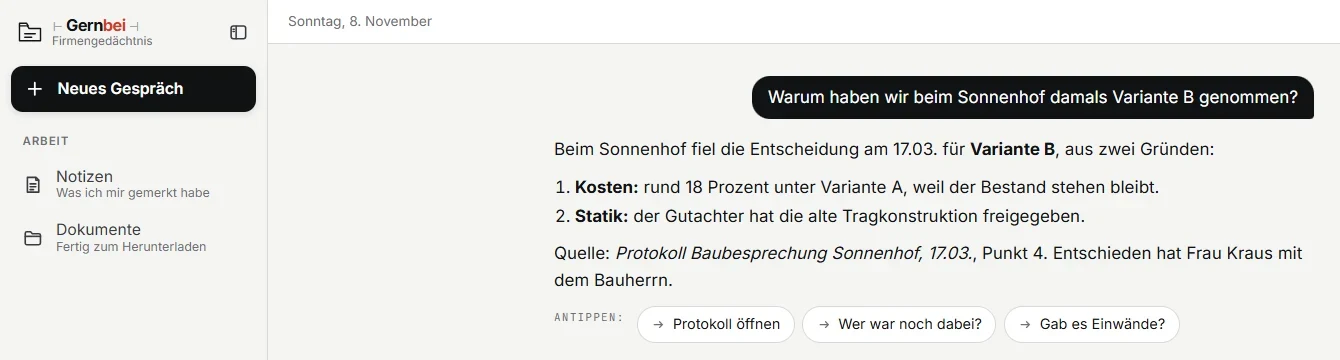
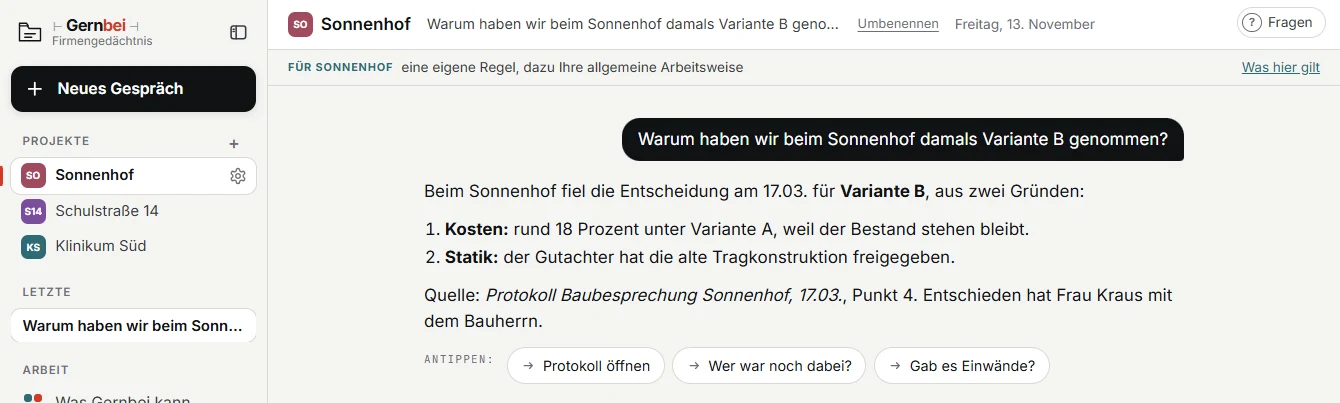
Bildschirmbilder aus Stand 94: Startseite Rechner und Handy, Hilfe Firmengedaechtnis, Projekte Handwerk und Dienstleister mit Was hier gilt (Kurt 13.11.2026: Ja, Bilder neu)

diff --git a/dienstleister.html b/dienstleister.html
@@ -104,7 +104,7 @@
   </div>
   <div class="karten-4">
     <div class="nb mit-bild"><img src="bilder/dienst-karte-angebot.webp" alt="Antwort in Gernbei: Angebot 2026-001 als Entwurf, Preise und Anschrift fehlen noch" width="1216" height="224"><b>Angebot</b><h3>Angebot wie das letzte</h3><p>Geben Sie ein altes Angebot als Vorlage, dann übernimmt Gernbei Ihren Aufbau. Was fehlt, sagt Gernbei, statt es zu erfinden.</p></div>
-    <div class="nb mit-bild"><img src="bilder/dienst-karte-projekte.webp" alt="Gernbei mit der Leiste Projekte: Albers ist offen, darüber die Zeile Gilt in Albers mit den Regeln Immer mit Exposé, Herr Albers wird gesiezt, Termine nachmittags" width="1216" height="609"><b>Projekte</b><h3>Jede Sache an ihrem Platz</h3><p>Ein Klick auf den Kunden links, und Gernbei arbeitet mit seinem Stand und seinen Regeln, etwa <i>bei Albers immer mit Exposé</i>. Eine Frage nennt, was offen ist.</p></div>
+    <div class="nb mit-bild"><img src="bilder/dienst-karte-projekte.webp" alt="Gernbei mit der Leiste Projekte: Albers ist offen, oben die Zeile Für Albers, aufgeklappt Was hier gilt mit den Regeln Immer mit Exposé, Herr Albers wird gesiezt, Termine nachmittags" width="1216" height="609"><b>Projekte</b><h3>Jede Sache an ihrem Platz</h3><p>Ein Klick auf den Kunden links, und Gernbei arbeitet mit seinem Stand und seinen Regeln, etwa <i>bei Albers immer mit Exposé</i>. Eine Frage nennt, was offen ist.</p></div>
     <div class="nb mit-bild"><img src="bilder/dienst-karte-zusagen.webp" alt="Antwort in Gernbei: zwei Zusagen der Woche mit Datum" width="1216" height="250"><b>Zusagen</b><h3>Was Sie wem versprochen haben</h3><p>Jede Zusage steht mit Datum beim Kunden und morgens im Bericht.</p></div>
     <div class="nb mit-bild"><img src="bilder/dienst-karte-protokoll.webp" alt="Antwort in Gernbei: Protokoll mit Entschiedenem und Offenem" width="1216" height="272"><b>Protokoll</b><h3>Protokoll aus Stichworten</h3><p>Entschiedenes und Offenes getrennt, abgelegt beim Kunden, auf Wunsch als Word-Datei.</p></div>
   </div>

diff --git a/handwerk.html b/handwerk.html
@@ -87,7 +87,7 @@
   <div class="karten-4">
     <div class="nb mit-bild"><img src="bilder/karte-foto-bericht.webp" alt="Kasten Ergebnis in Gernbei: Regiebericht unter Dokumente, Stunden und Material übernommen, Bitte die Zahlen vom Zettel zu prüfen" width="716" height="412" ><b>Foto</b><h3>Foto rein, Bericht raus</h3><p>Regiezettel, Kundenmail oder altes Angebot fotografieren. Zahlen vom Foto zeigt Gernbei Ihnen vorher zur Kontrolle.</p></div>
     <div class="nb mit-bild"><img src="bilder/karte-sprechen.webp" alt="Schreibzeile in Gernbei mit Büroklammer und Mikrofon" width="748" height="174" ><b>Handy</b><h3>Sprechen statt tippen</h3><p>Das Mikrofon Ihres Handys schreibt in die Zeile, auch im Transporter.</p></div>
-    <div class="nb mit-bild"><img src="bilder/karte-baustellen.webp" alt="Gernbei mit der Leiste Projekte: Bad Huber ist offen, darüber die Zeile Gilt in Bad Huber mit den Regeln Fliesen bringt der Kunde, Material ohne Aufschlag, Termine ab 8 Uhr" width="748" height="374" ><b>Baustellen</b><h3>Jede Baustelle für sich</h3><p>Tippen Sie links auf die Baustelle, und Gernbei kennt ihren Stand und ihre Absprachen. Was bei Huber gilt, bleibt bei Huber.</p></div>
+    <div class="nb mit-bild"><img src="bilder/karte-baustellen.webp" alt="Gernbei mit der Leiste Projekte: Bad Huber ist offen, oben die Zeile Für Bad Huber, aufgeklappt Was hier gilt mit den Regeln Fliesen bringt der Kunde, Material ohne Aufschlag, Termine ab 8 Uhr" width="748" height="374" ><b>Baustellen</b><h3>Jede Baustelle für sich</h3><p>Tippen Sie links auf die Baustelle, und Gernbei kennt ihren Stand und ihre Absprachen. Was bei Huber gilt, bleibt bei Huber.</p></div>
     <div class="nb mit-bild"><img src="bilder/karte-heute.webp" alt="Kachel in Gernbei: Was liegt heute an?" width="716" height="202" ><b>Morgens</b><h3>Morgens liegt der Bericht da</h3><p>Nachts wird gesichert und geprüft. Morgens wissen Sie, was heute ansteht und wem Sie etwas zugesagt haben.</p></div>
   </div>
   <details class="mehr">

diff --git a/index.html b/index.html
@@ -45,7 +45,7 @@
     <p class="einstieg-satz">Bringen Sie eine Kundenmail oder einen Regiezettel mit. Wir schauen gemeinsam, was Gernbei daraus macht.</p>
     <a class="knopf" href="#kontakt">Am eigenen Beispiel kennenlernen <svg viewBox="0 0 24 24"><path d="M5 12h14M12 5l7 7-7 7" stroke-linecap="round" stroke-linejoin="round"/></svg></a>
     <figure class="einstieg-bild">
-      <div class="schirm nur-gross"><div class="leiste"><i></i><i></i><i></i><span>Gernbei</span></div><img src="bilder/start-ausschnitt-rechner.webp" alt="Gernbei am Rechner: die Frage, warum beim Sonnenhof Variante B gewählt wurde, und die Antwort mit zwei Gründen und der Quelle, dem Protokoll der Baubesprechung" width="1340" height="360"></div>
+      <div class="schirm nur-gross"><div class="leiste"><i></i><i></i><i></i><span>Gernbei</span></div><img src="bilder/start-ausschnitt-rechner.webp" alt="Gernbei am Rechner im Projekt Sonnenhof: die Frage, warum beim Sonnenhof Variante B gewählt wurde, und die Antwort mit zwei Gründen und der Quelle, dem Protokoll der Baubesprechung" width="1340" height="403"></div>
       <div class="handy nur-klein"><img src="bilder/start-ausschnitt-handy.webp" alt="Gernbei am Handy: die Frage, warum beim Sonnenhof Variante B gewählt wurde, und die Antwort mit zwei Gründen und der Quelle, dem Protokoll der Baubesprechung" width="561" height="785"></div>
       <figcaption class="bildunter">Erfundenes Büro, echte Antwort. Am Rechner und am Handy dasselbe Gespräch, im Browser auf Ihren Geräten.</figcaption>
     </figure>

diff --git a/firmengedaechtnis.html b/firmengedaechtnis.html
@@ -223,7 +223,7 @@
       </div>
     </div>
     <div>
-      <div class="schirm"><div class="leiste"><i></i><i></i><i></i><span>Firmengedächtnis · Hilfe</span></div><img src="bilder/firmengedaechtnis-hilfe-rechner.webp" alt="Die Hilfe in Gernbei Firmengedächtnis: Suchfeld, Frag die Assistenz, und die Abschnitte zum Nachlesen" width="1600" height="1000" loading="lazy"></div>
+      <div class="schirm"><div class="leiste"><i></i><i></i><i></i><span>Firmengedächtnis · Hilfe</span></div><img src="bilder/firmengedaechtnis-hilfe-rechner.webp" alt="Die Hilfe in Gernbei Firmengedächtnis: Suchfeld ganz oben, Fragen stellen und Vorführungen ansehen, darunter was Sie schon machen und die Abschnitte zum Nachlesen" width="1600" height="1000" loading="lazy"></div>
       <p class="bildunter">Die Hilfe, in Gernbei selbst.</p>
     </div>
   </div>
